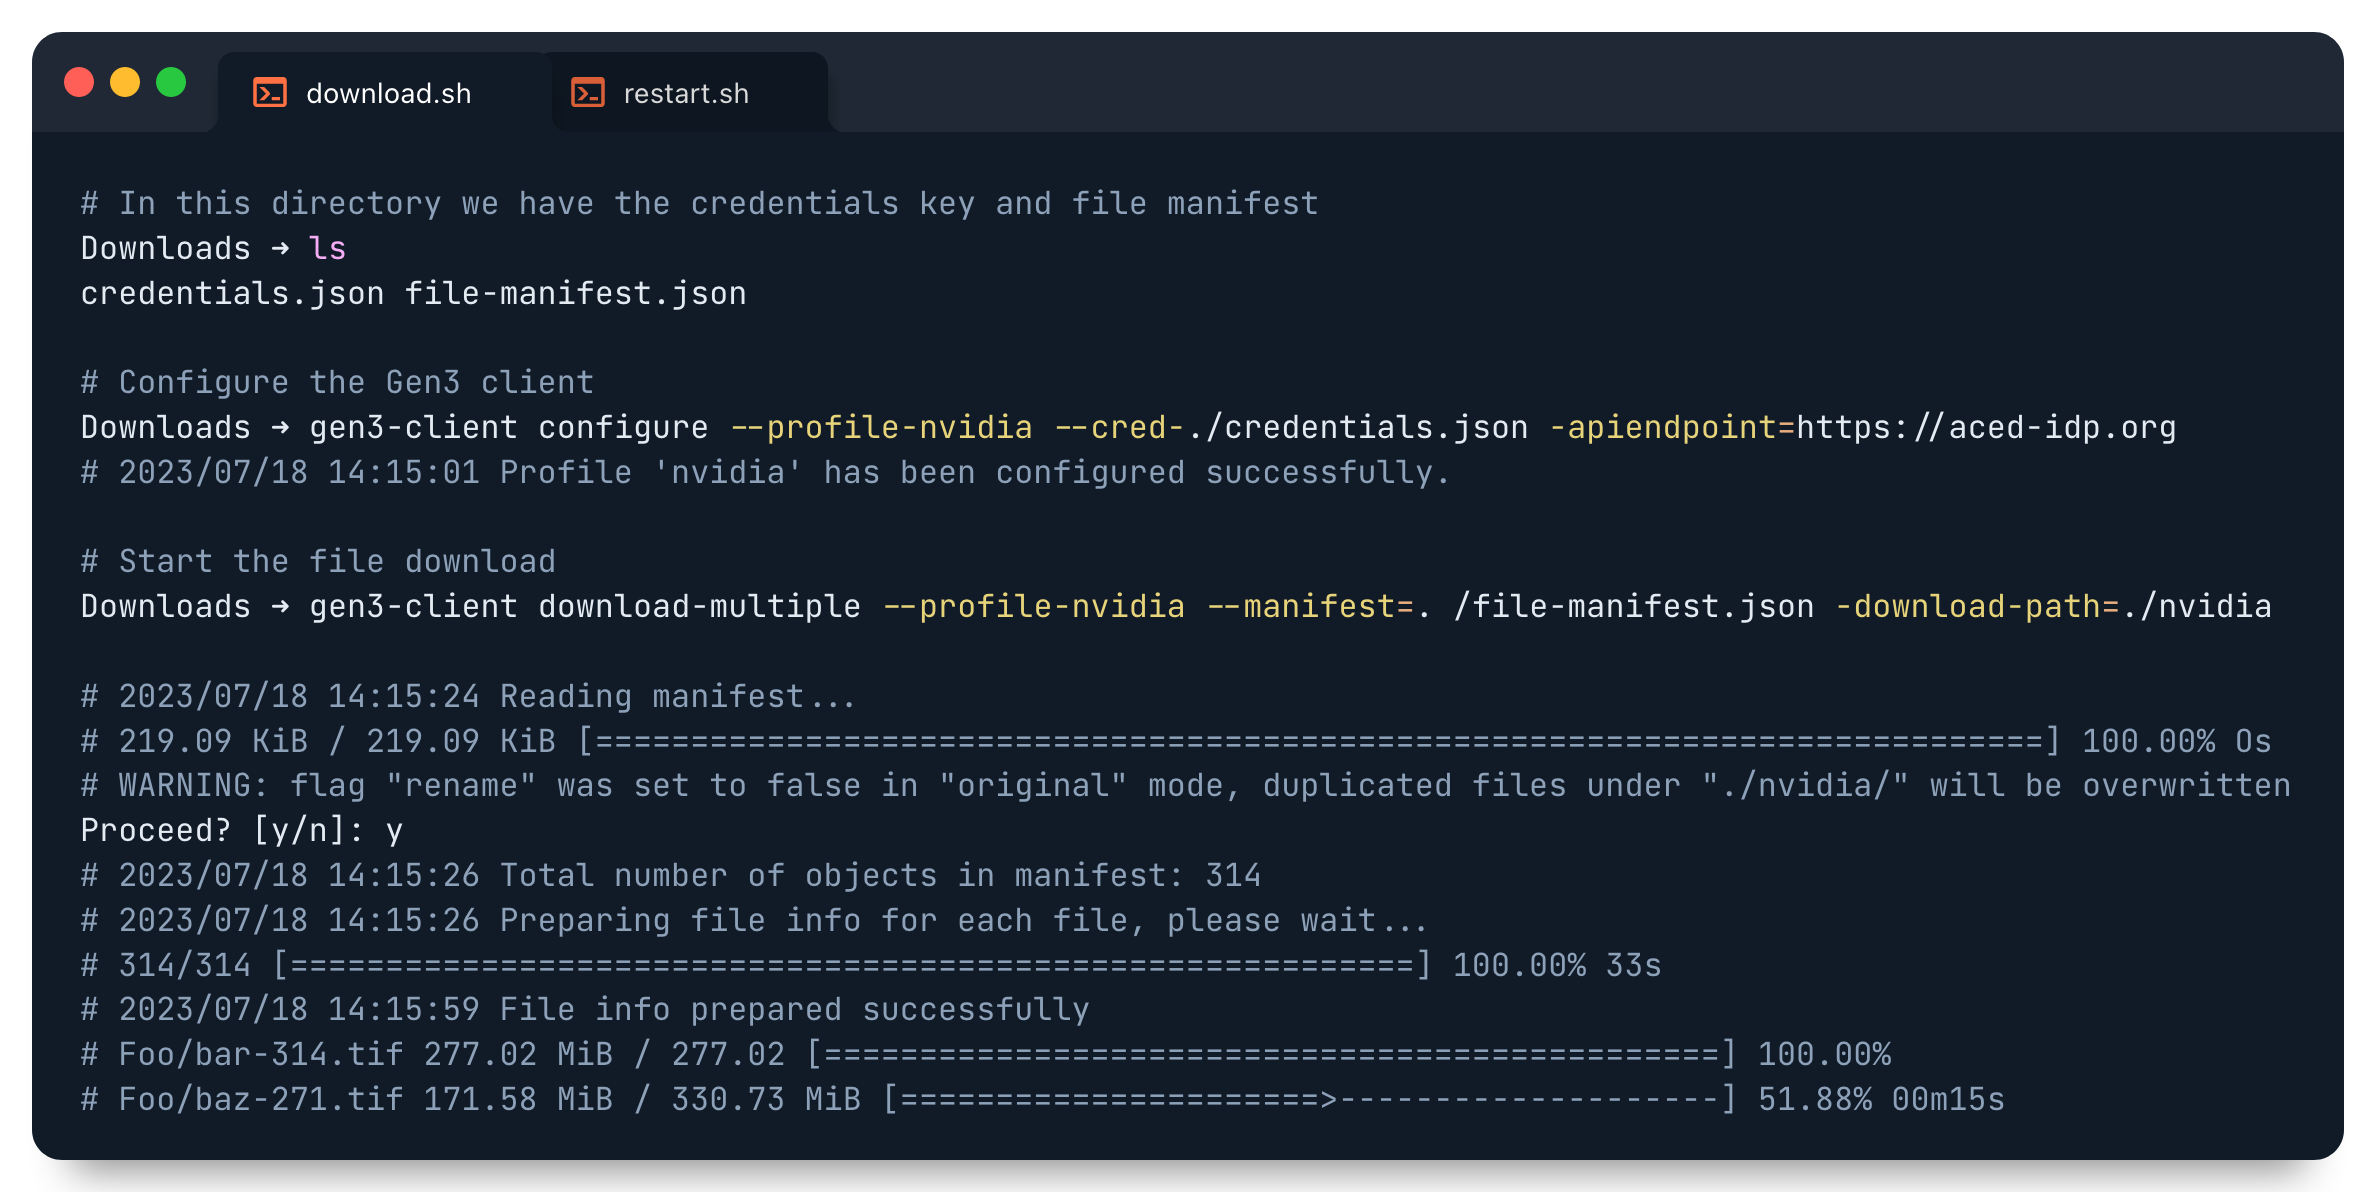
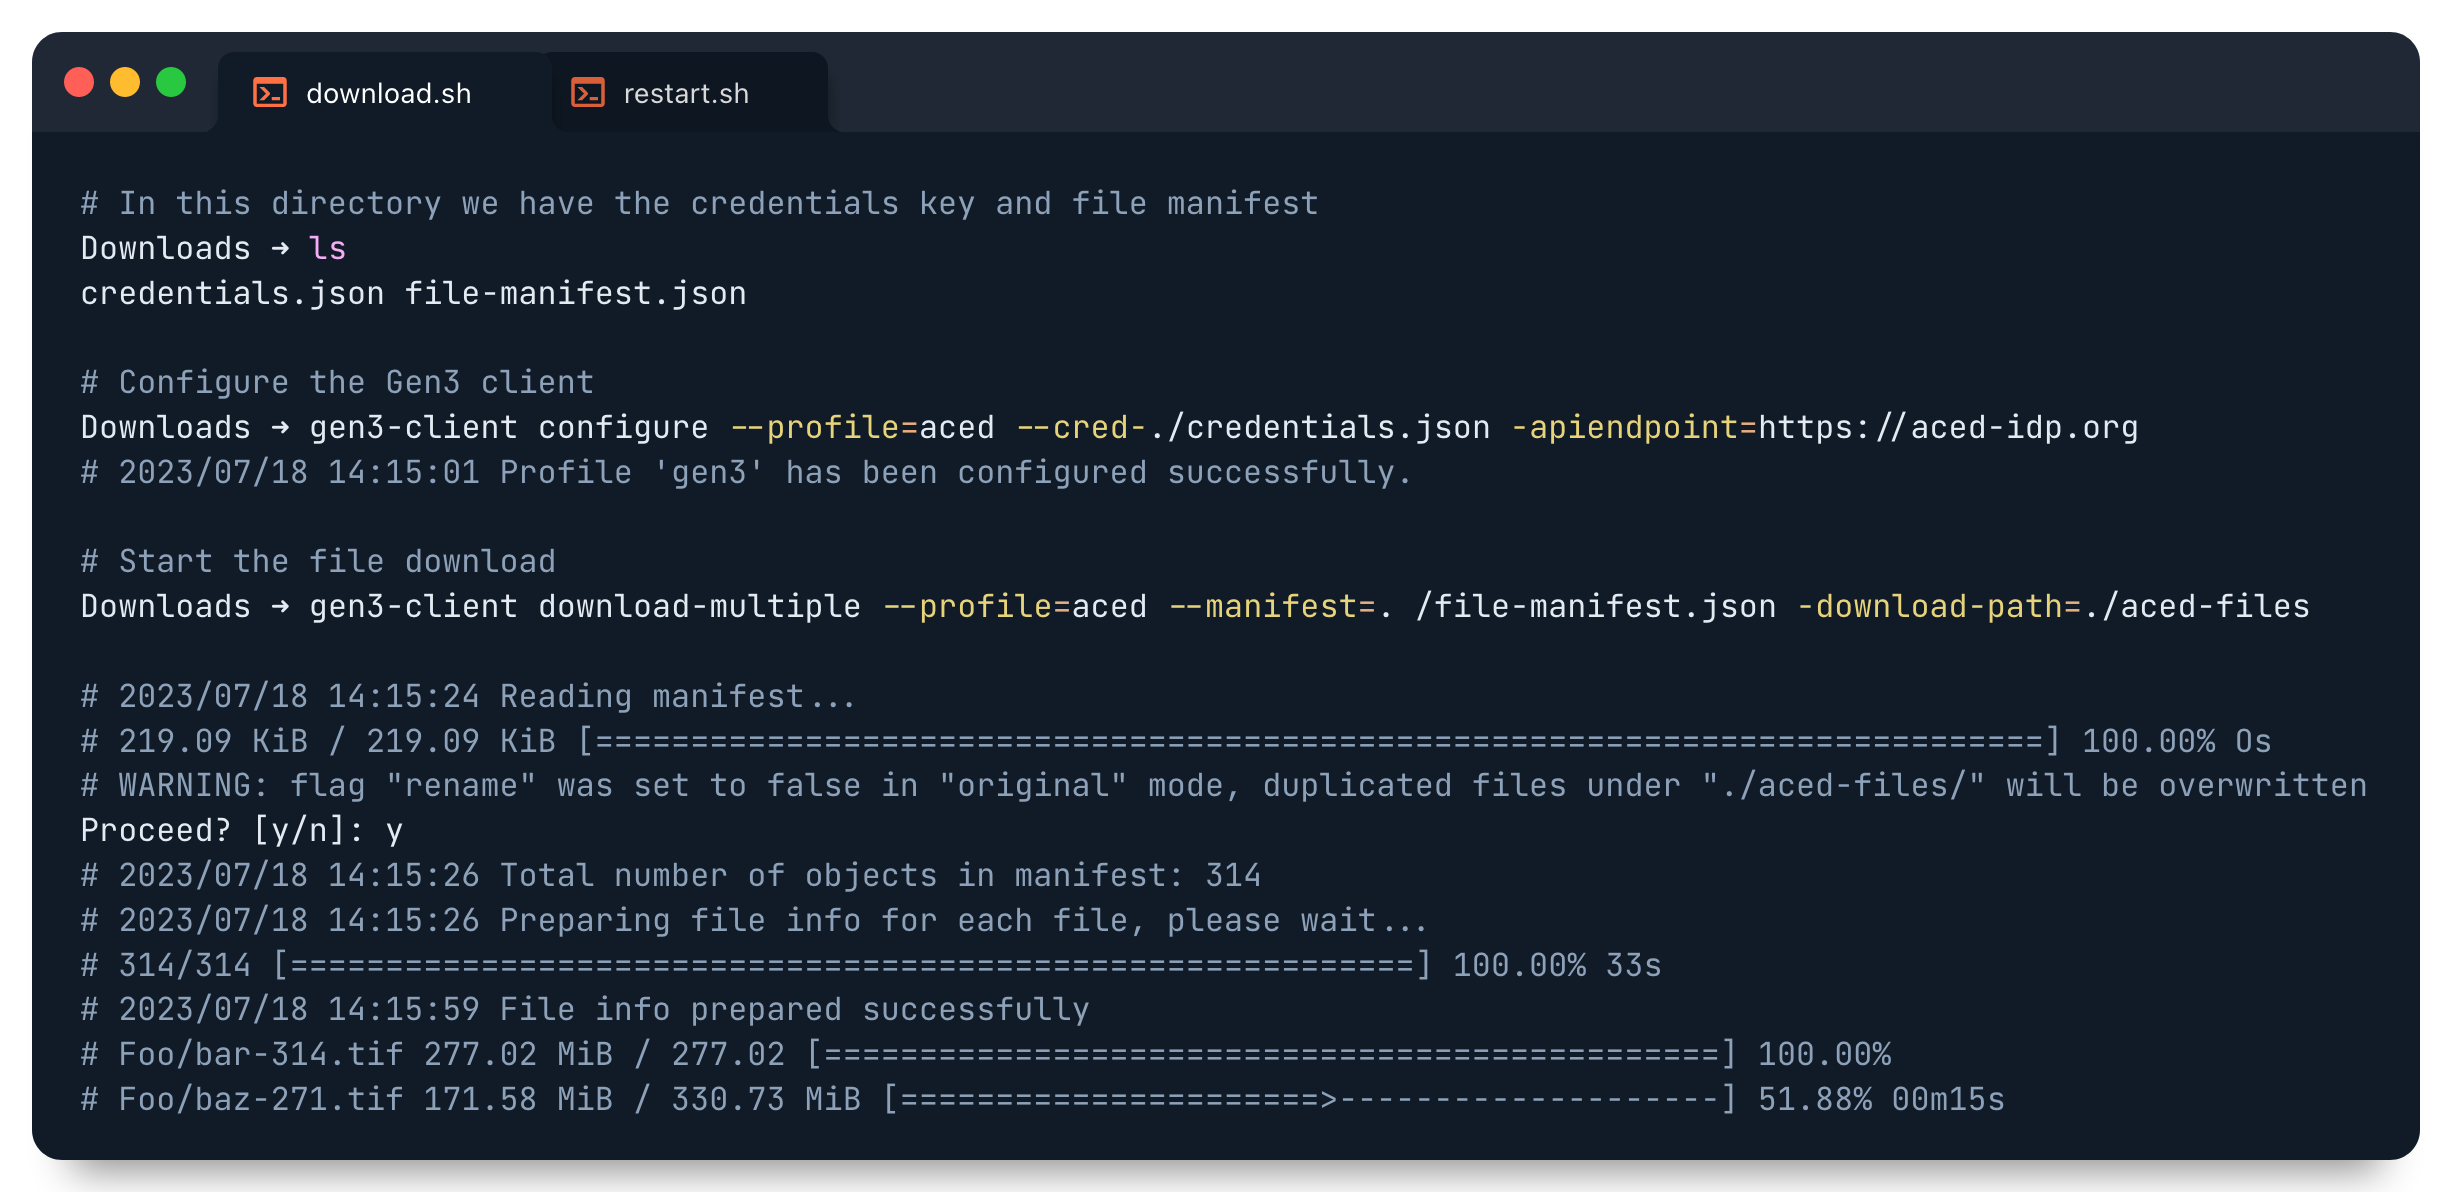
Make file download instructions generic to any ACED user

diff --git a/docs/ACED-file-download.md b/docs/ACED-file-download.md
@@ -1,10 +1,10 @@
-# ACED File Download (NVIDIA)
+# ACED File Download
 
 ## Download Steps
 
 1. Navigate to the [ACED data commons](https://aced-idp.org/)
 
-2. Log in with NVIDIA credentials through the 'Login from Microsoft' button.
+2. Log in with your credentials through either the 'Login from Google' or the 'Login from Microsoft' buttons.
 
     ![Login page](./images/login.png)
 
@@ -43,21 +43,23 @@
 10. Configure the gen3-client
 
         # This step uses the credentials.json file we downloaded earlier in Step 4
-        cd ~/Downloads
-        gen3-client configure --profile=nvidia --cred=./credentials.json --apiendpoint=https://aced-idp.org
+        gen3-client configure --profile=aced --cred=./credentials.json --apiendpoint=https://aced-idp.org
 
 11. Start the download
 
-        # This step will download all files to the ./nvidia directory
-        gen3-client download-multiple --profile=nvidia --manifest=./file-manifest.json --download-path=./nvidia
+        # This step will download all files to the ./aced-files directory
+        gen3-client download-multiple --profile=aced --manifest=./file-manifest.json --download-path=./aced-files
 
     ![Starting the file download](./images/file-download.png)
+
+<!-- Terminal image source: -->
+<!-- https://app.codeimage.dev/d1c80a2d-cded-432e-9d2e-825a0e058996 -->
 
 ## Restarting the Download
 
 If the download is interrupted the `--skip-completed` flag can be appended to the gen3-client command in order to restart the download while skipping any previously download files. More specifically it skips any file in the download directory that has the same filename and size as that in the file manifest.
 
-    # Preventing re-downloading existing files with the '--skip-completed' flag
-    gen3-client download-multiple --profile=nvidia --manifest=./file-manifest.json --download-path=./nvidia --skip-completed
+    # Prevent downloading existing files with the '--skip-completed' flag
+    gen3-client download-multiple --profile=<PROFILE NAME> --manifest=./file-manifest.json --download-path=./gen3-files --skip-completed
 
 ![Restarting the file download](./images/restart-file-download.png)
